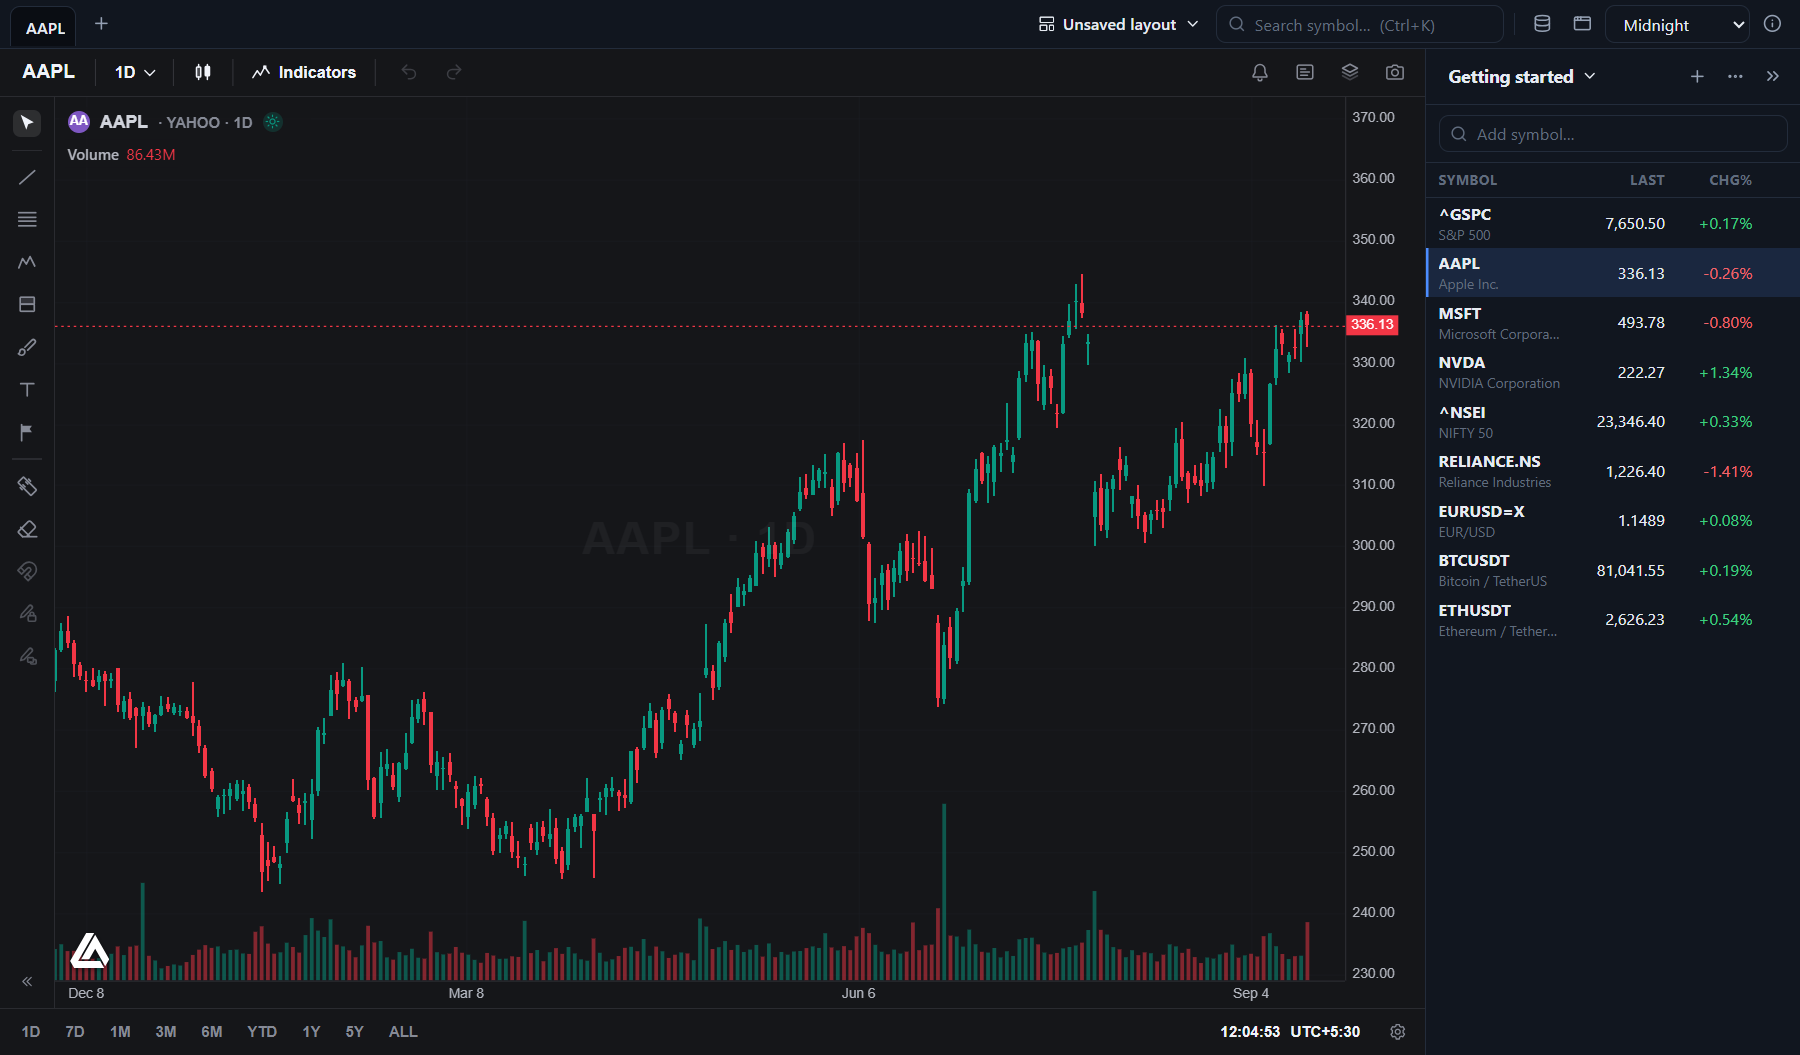
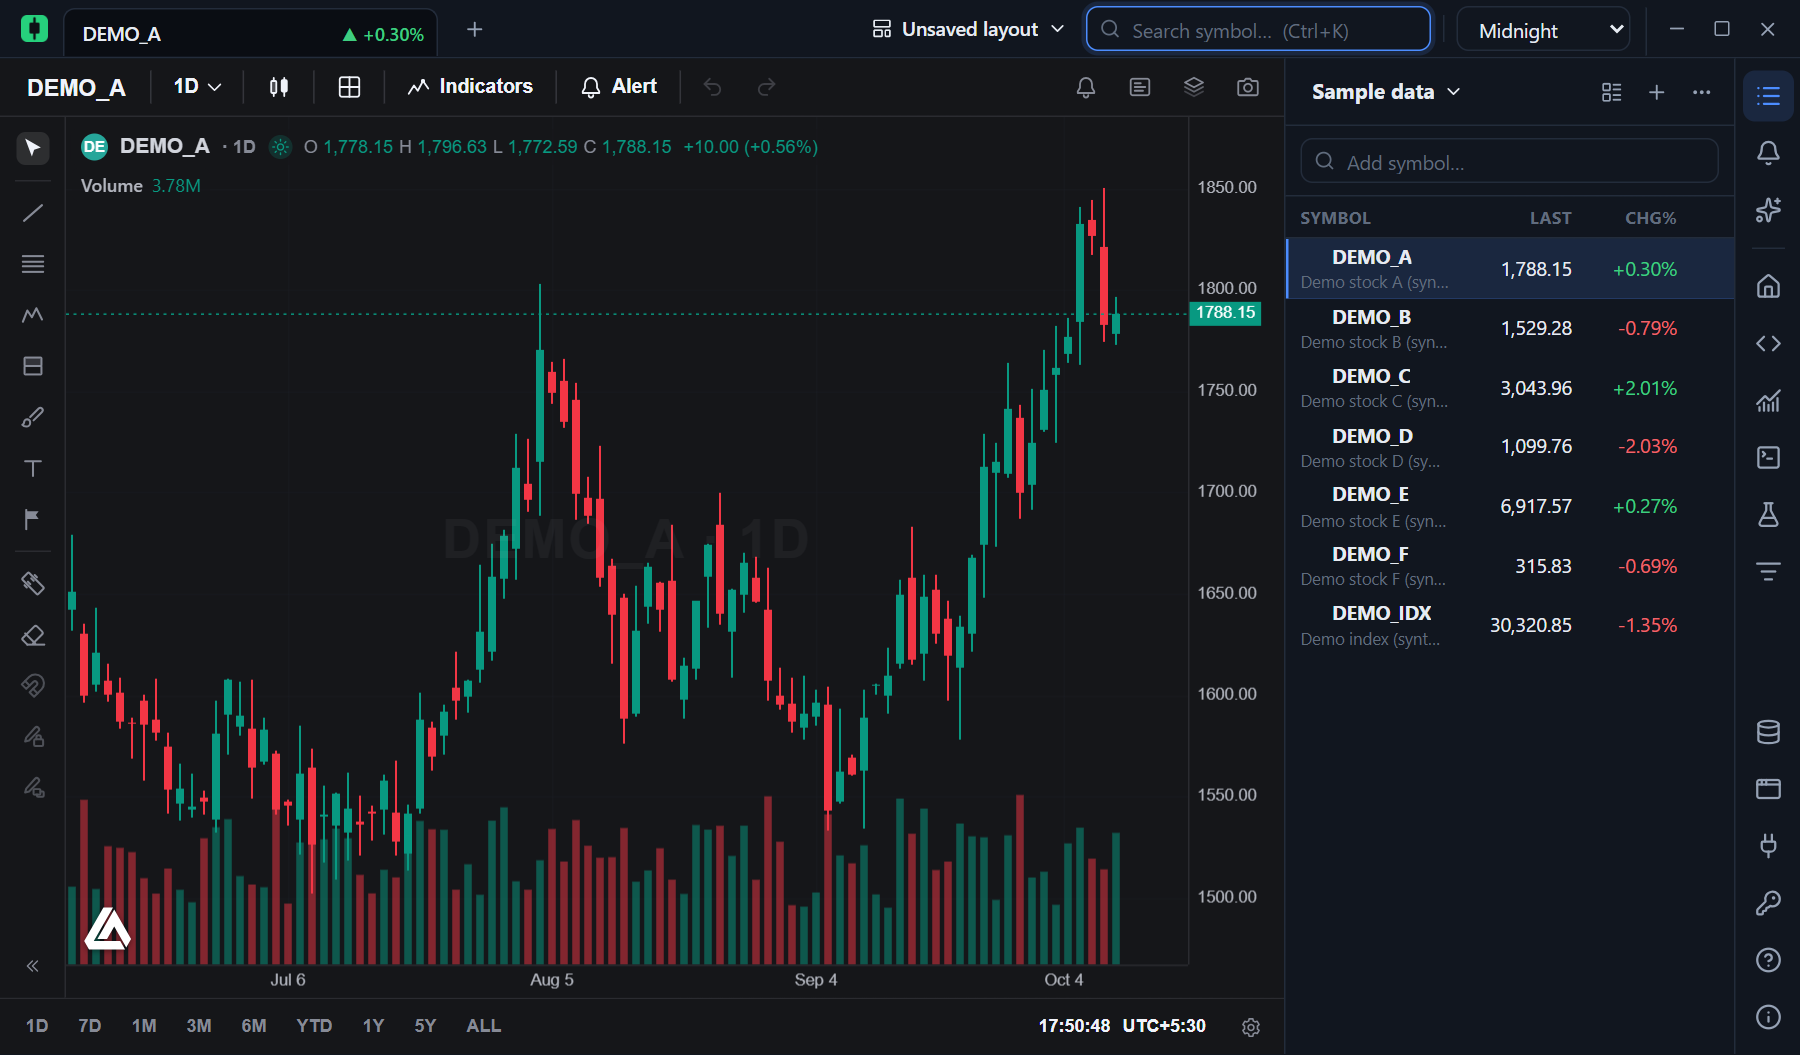
Retake the README screenshots on synthetic sample data
The old ones showed Yahoo Finance data, crypto pairs and the Dhan, Yahoo,
Binance, Coinbase and Hyperliquid providers, all since removed. The new ones
chart imported datasets of made-up prices (DEMO_A... "(synthetic)"), so no
exchange or vendor data is shown publicly.

diff --git a/README.md b/README.md
@@ -12,7 +12,7 @@ watchlists, saved layouts, and the ability to chart your own data — all runnin
 data needs no account; Indian market data needs your own Zerodha account.
 
 <p align="center">
-  <img src="docs/images/screenshot-dark.png" alt="ProTradeChart showing an AAPL daily chart with the watchlist docked on the right" width="900">
+  <img src="docs/images/screenshot-dark.png" alt="ProTradeChart showing a daily chart of synthetic sample data, with the watchlist docked on the right" width="900">
 </p>
 
 ## Features
